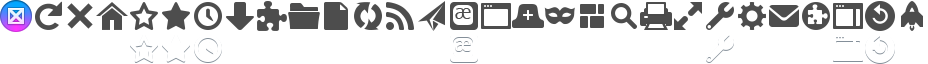
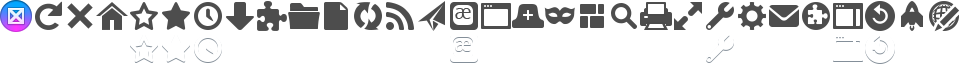
Bug 1056923 - Add WebIDE launch button. r=jryans,r=jaws

diff --git a/browser/themes/osx/browser.css b/browser/themes/osx/browser.css
@@ -765,6 +765,10 @@ toolbar .toolbarbutton-1 > .toolbarbutton-menubutton-dropmarker > .dropmarker-ic
     -moz-image-region: rect(18px, 342px, 36px, 324px);
   }
 
+  #webide-button@toolbarButtonPressed@ {
+    -moz-image-region: rect(18px, 342px, 36px, 324px);
+  }
+
   #new-tab-button@toolbarButtonPressed@ {
     -moz-image-region: rect(18px, 360px, 36px, 342px);
   }
@@ -1010,6 +1014,14 @@ toolbar .toolbarbutton-1 > .toolbarbutton-menubutton-dropmarker > .dropmarker-ic
 
   #e10s-button > .toolbarbutton-icon {
     transform: scaleY(-1);
+  }
+
+  #webide-button[cui-areatype="toolbar"] {
+    -moz-image-region: rect(0, 1476px, 36px, 1440px);
+  }
+
+  #webide-button[cui-areatype="toolbar"]:hover:active:not([disabled="true"]) {
+    -moz-image-region: rect(36px, 1476px, 72px, 1440px);
   }
 
   #new-tab-button[cui-areatype="toolbar"] {
@@ -1279,6 +1291,11 @@ toolbar .toolbarbutton-1 > .toolbarbutton-menubutton-dropmarker > .dropmarker-ic
   #e10s-button[cui-areatype="menu-panel"],
   toolbarpaletteitem[place="palette"] > #e10s-button {
     -moz-image-region: rect(0px, 1024px, 64px, 960px);
+  }
+
+  #webide-button[cui-areatype="menu-panel"],
+  toolbarpaletteitem[place="palette"] > #webide-button {
+    -moz-image-region: rect(0px, 1920px, 64px, 1856px);
   }
 
   #new-tab-button[cui-areatype="menu-panel"],

diff --git a/browser/devtools/webide/test/browser_widget.js b/browser/devtools/webide/test/browser_widget.js
@@ -1,0 +1,15 @@
+/* Any copyright is dedicated to the Public Domain.
+   http://creativecommons.org/publicdomain/zero/1.0/ */
+"use strict";
+
+function test() {
+  waitForExplicitFinish();
+  Task.spawn(function() {
+    let win = yield openWebIDE();
+    ok(document.querySelector("#webide-button"), "Found WebIDE button");
+    Services.prefs.setBoolPref("devtools.webide.widget.enabled", false);
+    ok(!document.querySelector("#webide-button"), "WebIDE button uninstalled");
+    yield closeWebIDE(win);
+    Services.prefs.clearUserPref("devtools.webide.widget.enabled");
+  }).then(finish, handleError);
+}

diff --git a/browser/devtools/webide/content/webide.js b/browser/devtools/webide/content/webide.js
@@ -89,6 +89,12 @@ let UI = {
 
     this.lastConnectedRuntime = Services.prefs.getCharPref("devtools.webide.lastConnectedRuntime");
 
+    if (Services.prefs.getBoolPref("devtools.webide.widget.autoinstall") &&
+        !Services.prefs.getBoolPref("devtools.webide.widget.enabled")) {
+      Services.prefs.setBoolPref("devtools.webide.widget.enabled", true);
+      gDevToolsBrowser.moveWebIDEWidgetInNavbar();
+    }
+
     this.setupDeck();
   },
 

diff --git a/browser/devtools/webide/webide-prefs.js b/browser/devtools/webide/webide-prefs.js
@@ -18,3 +18,6 @@ pref("devtools.webide.adaptersAddonID", "fxdevtools-adapters@mozilla.org");
 pref("devtools.webide.monitorWebSocketURL", "ws://localhost:9000");
 pref("devtools.webide.lastConnectedRuntime", "");
 pref("devtools.webide.lastSelectedProject", "");
+pref("devtools.webide.widget.autoinstall", true);
+pref("devtools.webide.widget.enabled", false);
+pref("devtools.webide.widget.inNavbarByDefault", false);

diff --git a/browser/themes/shared/menupanel.inc.css b/browser/themes/shared/menupanel.inc.css
@@ -166,6 +166,11 @@ toolbarpaletteitem[place="palette"] > #web-apps-button {
   -moz-image-region: rect(0, 928px, 32px, 896px);
 }
 
+#webide-button[cui-areatype="menu-panel"],
+toolbarpaletteitem[place="palette"] > #webide-button {
+  -moz-image-region: rect(0px, 960px, 32px, 928px);
+}
+
 toolbaritem[sdkstylewidget="true"] > toolbarbutton {
   -moz-image-region: rect(0, 832px, 32px, 800px);
 }

diff --git a/browser/themes/shared/toolbarbuttons.inc.css b/browser/themes/shared/toolbarbuttons.inc.css
@@ -233,3 +233,7 @@ toolbar[brighttext] #loop-call-button > .toolbarbutton-badge-container {
 #loop-call-button:not([disabled="true"])[state="active"]:-moz-any(:hover,:hover:active,[open]) > .toolbarbutton-badge-container {
   -moz-image-region: rect(0, 126px, 18px, 108px);
 }
+
+#webide-button[cui-areatype="toolbar"] {
+  -moz-image-region: rect(0, 738px, 18px, 720px);
+}

diff --git a/browser/devtools/webide/test/head.js b/browser/devtools/webide/test/head.js
@@ -64,6 +64,8 @@ function closeWebIDE(win) {
 
   let deferred = promise.defer();
 
+  Services.prefs.clearUserPref("devtools.webide.widget.enabled");
+
   win.addEventListener("unload", function onUnload() {
     win.removeEventListener("unload", onUnload);
     info("WebIDE closed");
